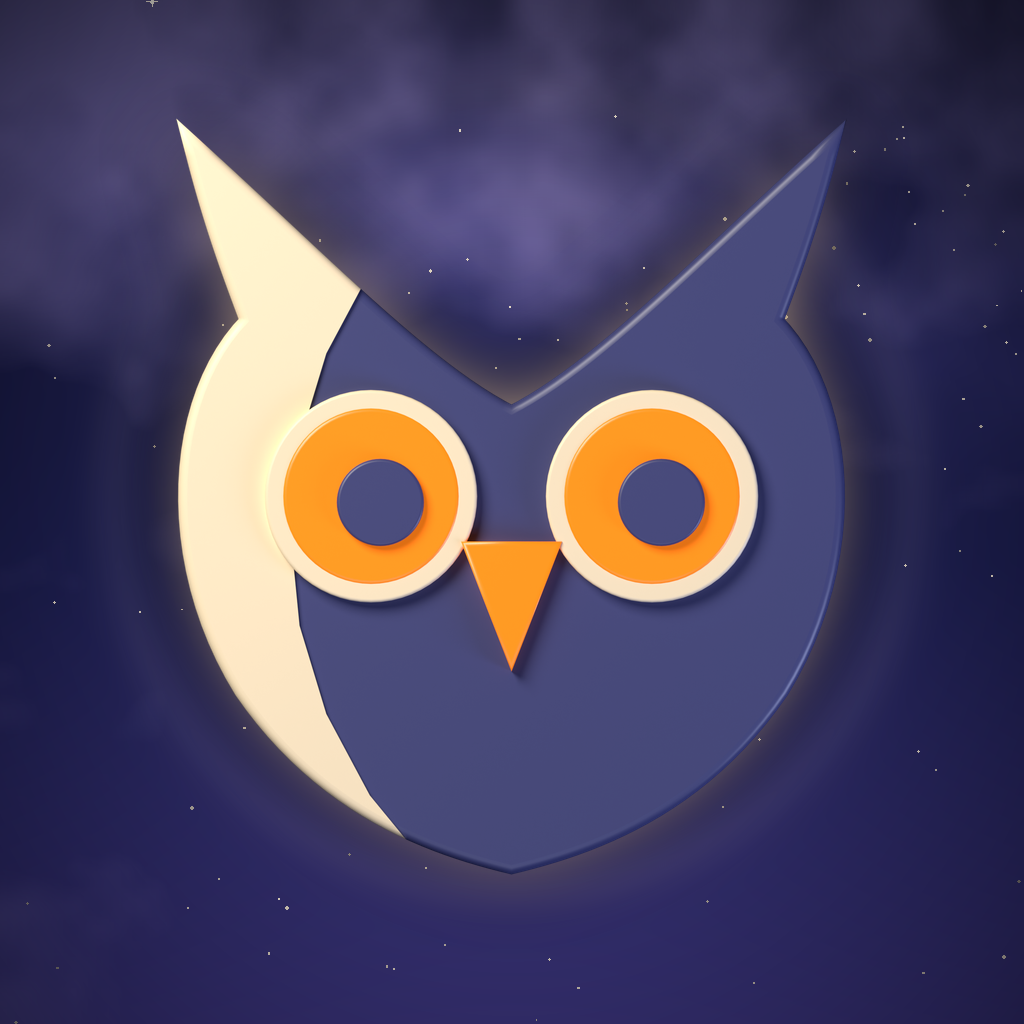
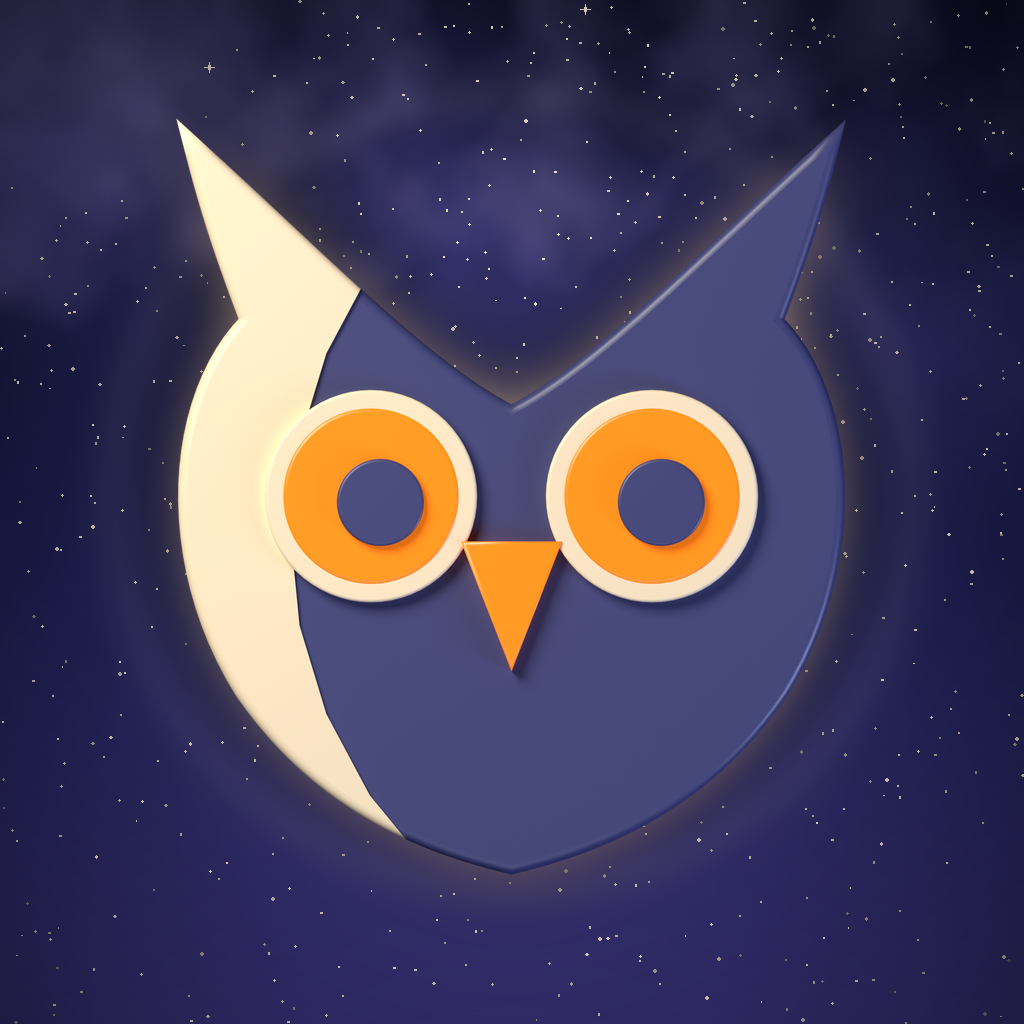
Studio emblem: lighter clouds, more stars

Changed region(s): [[0.2188, 0.0, 0.8438, 0.3125], [0.125, 0.25, 0.1562, 0.2812], [0.0938, 0.2812, 0.125, 0.3125]]

diff --git a/tools/paint_style/studio_logo.py b/tools/paint_style/studio_logo.py
@@ -62,7 +62,7 @@ def twinkle(d, x, y, r, a):
     d.ellipse([x - k * 1.6, y - k * 1.6, x + k * 1.6, y + k * 1.6], fill=(255, 250, 236, a))
 
 
-def sky(w, h, cx, cy, seed, horizon=None, halo=0.55):
+def sky(w, h, cx, cy, seed, horizon=None, halo=0.55, clouds=0.47, stars=1.0):
     """a richer night: vertical gradient (indigo top → violet-blue low), clouds lit near the moon, a starry band,
     a halo round (cx, cy), vignette; with horizon = y of the far hills, two hill ridges + a pine treeline"""
     rng = np.random.default_rng(seed)
@@ -81,20 +81,20 @@ def sky(w, h, cx, cy, seed, horizon=None, halo=0.55):
     a = a + np.array([70, 64, 120]) * band * noise(w, h, seed + 1, U / 6)[..., None] * 0.45
     # clouds: noise thresholded into soft wisps, brighter near the moon
     n = noise(w, h, seed + 2, U / 3, 5)
-    cl = np.clip((n - 0.47) * 3.2, 0, 1)[..., None]
+    cl = np.clip((n - clouds) * 3.2, 0, 1)[..., None]
     lit = np.exp(-(r / (R * 1.4)) ** 2)
     a = a * (1 - cl * 0.55) + (np.array([60, 58, 112]) + np.array([150, 130, 140]) * lit) * cl * 0.55
     im = Image.fromarray(np.clip(a, 0, 255).astype(np.uint8)).convert("RGBA")
     dr = ImageDraw.Draw(im)
     # stars: denser in the band, none behind thick cloud
-    for _ in range(int(w * h / 2500)):
+    for _ in range(int(w * h / 2500 * stars)):
         sx, sy = rng.uniform(0, w), rng.uniform(0, h * (0.8 if horizon else 1.0))
         bi, ci = int(min(h - 1, sy)), int(min(w - 1, sx))
-        if cl[bi, ci, 0] > 0.4 or rng.random() > 0.25 + band[bi, ci, 0] * 0.9:
+        if cl[bi, ci, 0] > 0.4 or rng.random() > (0.25 + band[bi, ci, 0] * 0.9) * stars:
             continue
         rr = rng.choice([0.6, 0.8, 1.0, 1.3, 1.8]) * U / 1440
         dr.ellipse([sx - rr, sy - rr, sx + rr, sy + rr], fill=(255, 242, 220, int(rng.integers(50, 210))))
-    for _ in range(max(3, int(U / 300))):
+    for _ in range(max(3, int(U / 300 * stars))):
         sx, sy = rng.uniform(0, w), rng.uniform(0, h * 0.6)
         if np.hypot(sx - cx, sy - cy) < R * 0.9:
             continue
@@ -142,7 +142,7 @@ def main():
 
     # emblem: symbol only (it reads at 150 px; a wordmark wouldn't)
     S = 1024
-    bg = sky(S, S, S / 2, S * 0.48, 3, halo=0.18)
+    bg = sky(S, S, S / 2, S * 0.48, 3, halo=0.18, clouds=0.6, stars=2.6)
     s = fit(sym, h=int(S * 0.74))
     pos = ((S - s.width) // 2, int(S * 0.5 - s.height * 0.52))
     bg = glow(bg, s, pos, strength=200, blur=0.06)
